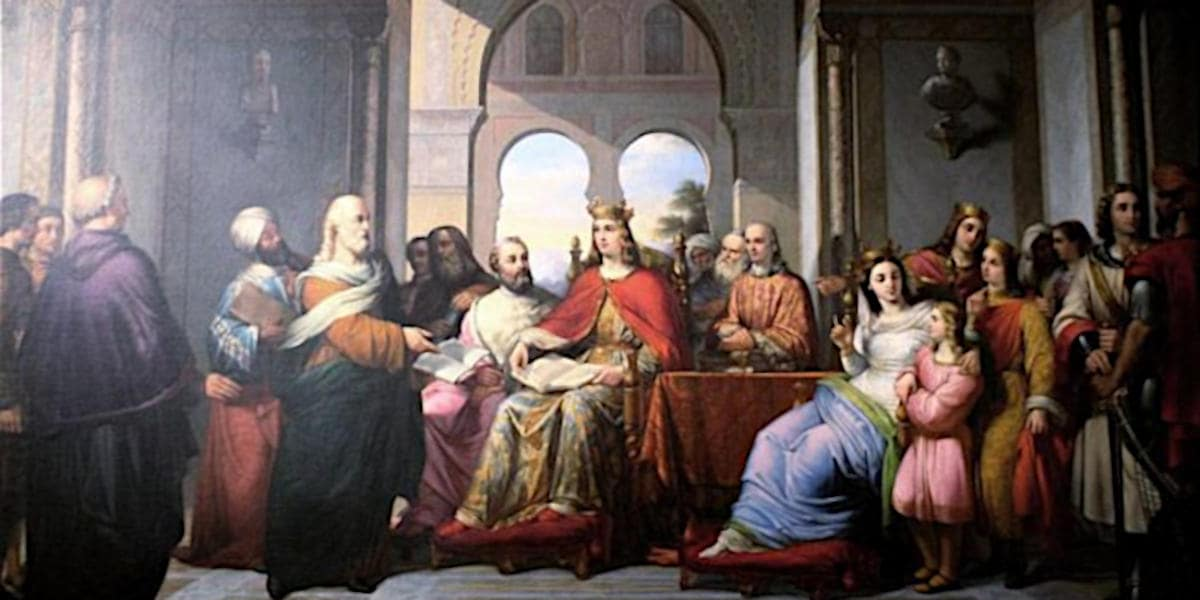
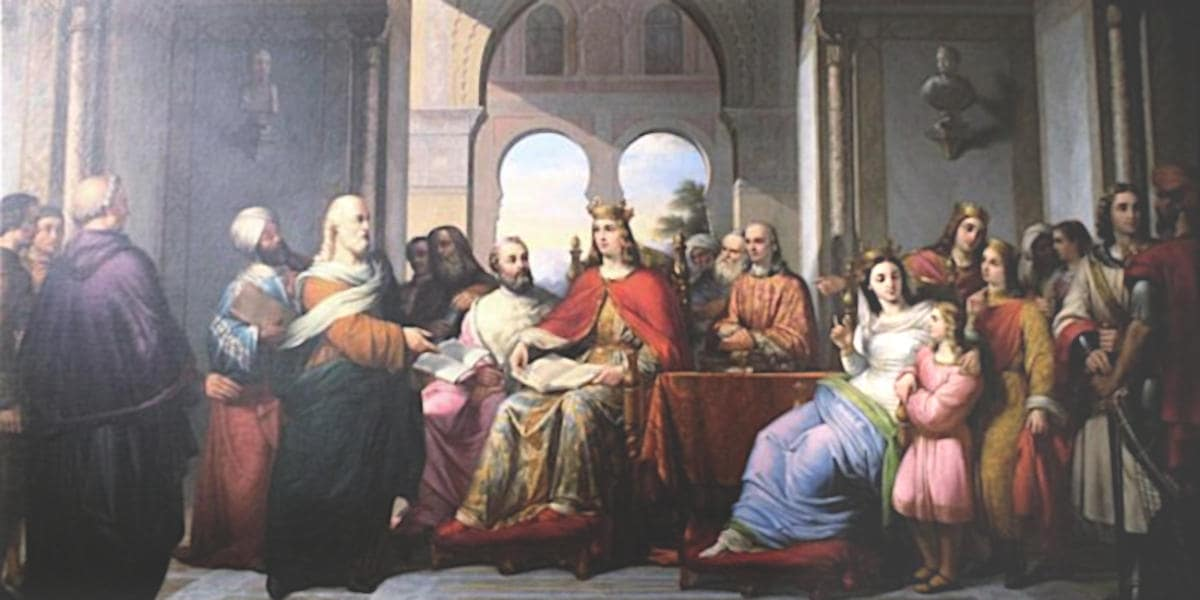
348-l-essere-umano-condannato-ad-essere-libero.md: 1st edt., up.2

diff --git a/html/348-l-essere-umano-condannato-ad-essere-libero.html b/html/348-l-essere-umano-condannato-ad-essere-libero.html
@@ -18,11 +18,11 @@
 <style>#printlink { display: inline; } @page { size: legal; margin: 0.50in 13.88mm 0.50in 13.88mm; zoom: 100%; } @media print { html { zoom: 100%; } }</style>
 <p class='topbar'></p>
 <div class='topbar' width='800px' translate='no'><b id='menu' onClick='nextStylesheet()'>&thinsp;&#9783;&thinsp;&Ropf;</b> &thinsp;&mdash;&thinsp; &#8543;&#8239;release: <b class='topbar'>2025-11-11&nbsp;<sup class='date-type topbar' id='datenote'>(&hairsp;<a href='#date-legenda' class='date-type topbar'>2</a>&hairsp;)</sup></b>  &thinsp;&mdash;&thinsp; rev.: <b class='topbar
-'>4</b rev_num='
+'>5</b rev_num='
 '> &thinsp;&mdash;&thinsp; transl.:&nbsp; <a class='topbar' href='https://robang74-github-io.translate.goog/roberto-a-foglietta/html/348-l-essere-umano-condannato-ad-essere-libero?_x_tr_sl=it&_x_tr_tl=en&_x_tr_hl=en-EN&_x_tr_pto=wapp' target='_blank' rel='noopener noreferrer'>EN</a> &nbsp;<b>&middot;</b>&nbsp; <a class='topbar' href='https://robang74-github-io.translate.goog/roberto-a-foglietta/html/348-l-essere-umano-condannato-ad-essere-libero?_x_tr_sl=it&_x_tr_tl=de&_x_tr_hl=de-DE&_x_tr_pto=wapp' target='_blank' rel='noopener noreferrer'>DE</a> &nbsp;<b>&middot;</b>&nbsp; <a class='topbar' href='https://robang74-github-io.translate.goog/roberto-a-foglietta/html/348-l-essere-umano-condannato-ad-essere-libero?_x_tr_sl=it&_x_tr_tl=fr&_x_tr_hl=fr-FR&_x_tr_pto=wapp' target='_blank' rel='noopener noreferrer'>FR</a> &nbsp;<b>&middot;</b>&nbsp; <a class='topbar' href='https://robang74-github-io.translate.goog/roberto-a-foglietta/html/348-l-essere-umano-condannato-ad-essere-libero?_x_tr_sl=it&_x_tr_tl=es&_x_tr_hl=es-ES&_x_tr_pto=wapp' target='_blank' rel='noopener noreferrer'>ES</a> &thinsp;&mdash;&thinsp; goto:&nbsp; <a class='topbar' href='../index.html#index'>.&#x27F0;.</a> &nbsp;<b>&middot;</b>&nbsp; <a class='topbar' href='../../chatbots-for-fun/index.html'target=_blank>C4F</a> &nbsp;<b>&middot;</b>&nbsp; <a class='topbar' href='../../chatgpt-answered-prompts/index.html'target=_blank>Q&A</a> <span id='printlink'>&thinsp;&mdash;&thinsp; <b>⎙</b>&hairsp;: <a aria-label='print this page' class='topbar' href='javascript:window.print()'>PDF</a></span>&nbsp;</div>
 <div id="firstdiv">
 <p class='topbar'></p>
-<div align="center"><img class="wbsketch paleinv" src="../img/348-l-essere-umano-condannato-ad-essere-libero.jpg" width="800"><br></div>
+<div align="center"><img class="bwsketch" src="../img/348-l-essere-umano-condannato-ad-essere-libero.jpg" width="800"><br></div>
 <p></p>
 <H2 id="lessere-umano--condannato-ad-essere-libero">L'essere umano è condannato ad essere libero</H2>
 <p></p>

diff --git a/348-l-essere-umano-condannato-ad-essere-libero.md b/348-l-essere-umano-condannato-ad-essere-libero.md
@@ -1,7 +1,7 @@
 <div id="firstdiv" created=":IT" style="max-width: 800px; margin: auto; white-space: pre-wrap; text-align: justify;">
 <style>#printlink { display: inline; } @page { size: legal; margin: 0.50in 13.88mm 0.50in 13.88mm; zoom: 100%; } @media print { html { zoom: 100%; } }</style>
 
-<div align="center"><img class="wbsketch paleinv" src="img/348-l-essere-umano-condannato-ad-essere-libero.jpg" width="800"><br></div>
+<div align="center"><img class="bwsketch" src="img/348-l-essere-umano-condannato-ad-essere-libero.jpg" width="800"><br></div>
 
 ## L'essere umano è condannato ad essere libero
 
